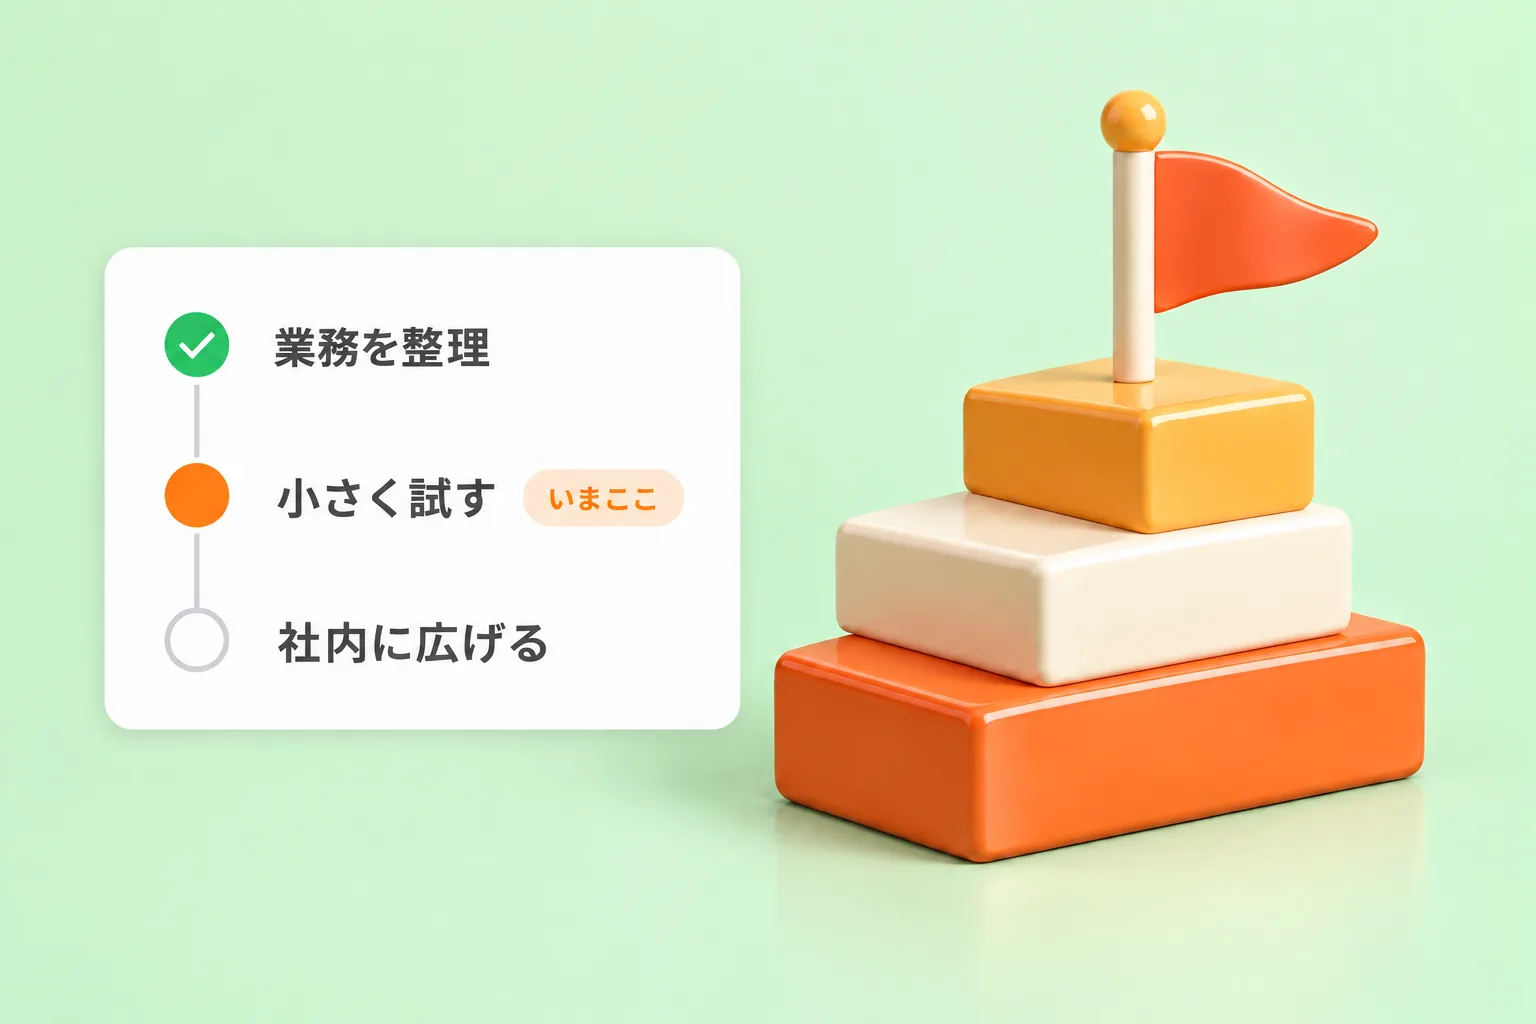
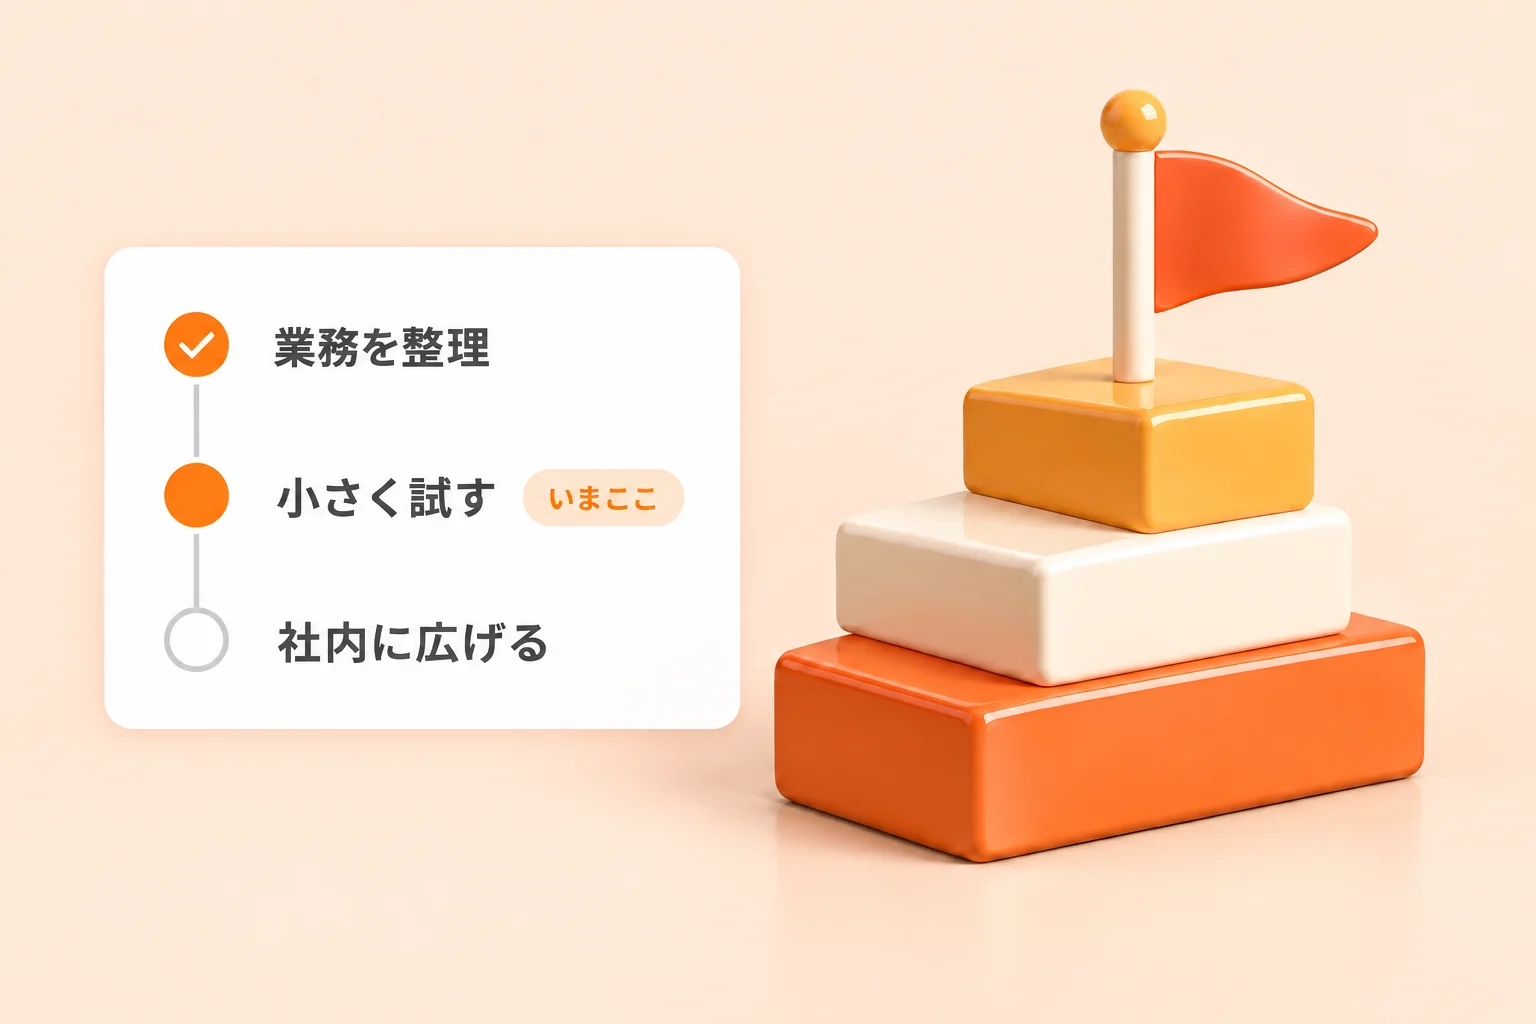
design: 事業ページの説明画像5枚を同じ絵柄にそろえる
IT事業の3枚（開発・インフラ・QA）とAI事業の2枚（導入支援・サービス開発）を、
淡い桃色の背景・つやのある硬い立体物・左にカード／右に立体物の構図で作り直した。
AIサービス開発は抽象的な輪をやめ、案件と候補者のカードを主役にした。alt も新しい絵に合わせた。

diff --git a/components/business/ScreenMocks.tsx b/components/business/ScreenMocks.tsx
@@ -1,7 +1,8 @@
 /**
  * 事業ページで「作る物」を見せる画像（2026-11-18）。
  * - 中身はすべて架空の画面。お客様の実データ・実画面は使わない。
- * - IT は3枚で見た目の型を変える（開発＝暗い背景の画面、インフラ＝白地の立体構成図、QA＝実機を並べた写真風）。AI はつやのある立体物と平らなカード。
+ * - IT も AI も同じ絵柄にそろえる（2026-11-19）：淡い桃色の背景、つやのある硬い立体物、左に平らなカード・右に立体物。
+ *   作り直すときは business-ai-agent.webp を手本として画像生成（edits）に渡す。
  *   どちらも画像生成で作り、画面の文字も画像に描き込んである（HTML の画面モックは細かすぎて見劣りしたため、オーナー判断で置き換え）。
  * - 画像の中の文字は読み上げられないので、alt に中身を書く。
  */
@@ -21,7 +22,7 @@ export function DevScreens() {
   return (
     <ToyScene
       src="/business-it-dev.webp"
-      alt="ノートPCとスマートフォンの画面のイメージ。ノートPCは業務ポータルで、今月の案件（進行中24・完了12・確認待ち5）と案件一覧。スマートフォンは配送アプリで、本日の配送18件を午前便・午後便・夜間便に分けて表示"
+      alt="業務ポータルのカードと、ノートPC・スマートフォンのイラスト。カードは今月の案件（進行中24・完了12・確認待ち5）と案件一覧。スマートフォンは配送アプリで、本日の配送18件を表示"
     />
   );
 }
@@ -30,7 +31,7 @@ export function InfraScreens() {
   return (
     <ToyScene
       src="/business-it-infra.webp"
-      alt="クラウドのシステム構成を立体で描いた図。利用者からCDNを通り、クラウド上のロードバランサから2組のサーバへ分かれ、主と予備のデータベースにつながる。外側に監視とバックアップが付く"
+      alt="監視画面のカードと、クラウド・サーバ・データベースのイラスト。カードには稼働率 99.9%、サーバは正常、バックアップは完了と表示"
     />
   );
 }
@@ -39,7 +40,7 @@ export function QaScreens() {
   return (
     <ToyScene
       src="/business-it-qa.webp"
-      alt="スマートフォン3台とタブレット2台を机に並べて動作を確かめている様子。4台は合格のチェック、1台は不合格の印と警告が出ている。横にチェックリストとペン"
+      alt="テスト結果のカードと、スマートフォン・タブレット・虫めがねのイラスト。カードにはログイン・注文・通知が合格、決済が不合格、4件中3件が合格と表示"
     />
   );
 }
@@ -68,7 +69,7 @@ export function ProductScreens() {
   return (
     <ToyScene
       src="/business-ai-ribbon.webp"
-      alt="オレンジのリボンの立体グラフィックと、新着の案件にぴったりの人を示すカード。適合度92点の「候補 A」、Java 7年・物流の経験"
+      alt="新着の案件と、ぴったりの人を示す2枚のカードと、噛み合うパズルのイラスト。案件は Java 開発・物流システム・経験5年以上。候補 A は適合度92点、Java 7年・物流の経験"
     />
   );
 }
